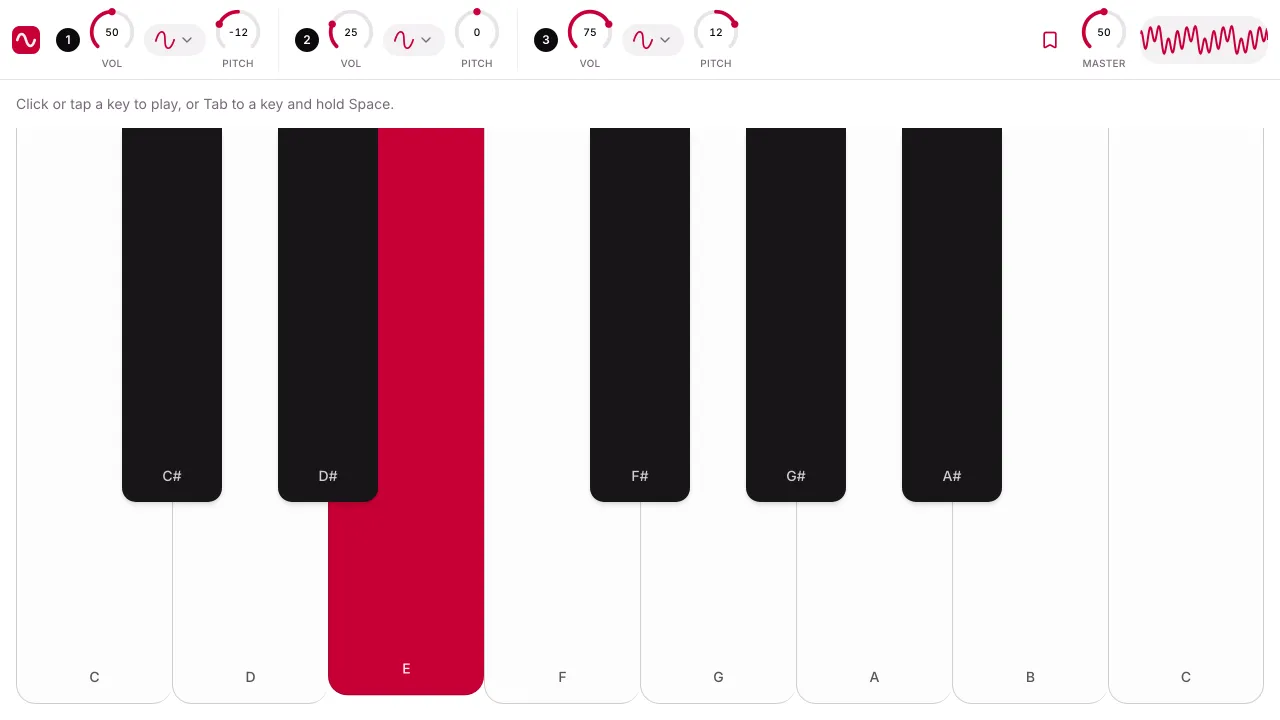
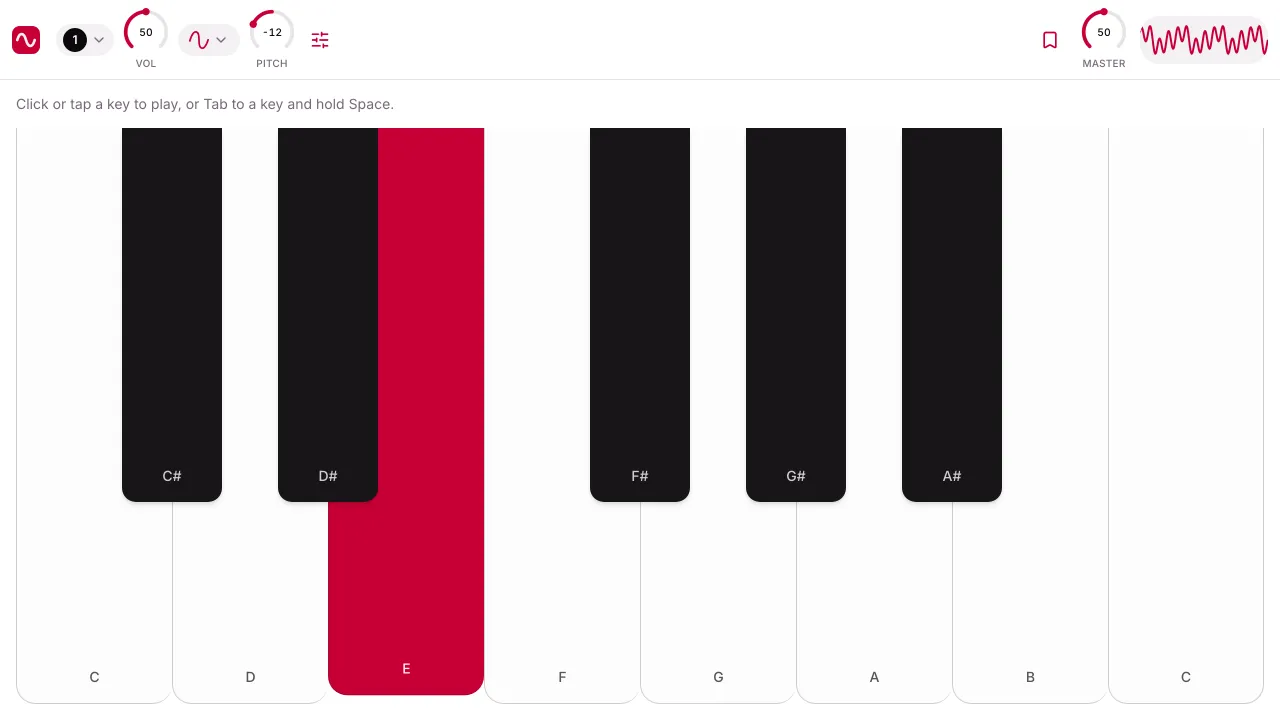
docs: describe the oscillator select and pages
CHANGELOG: each oscillator's own page (Added), and under Changed the
bar's single oscillator with a select and the new /oscillators target.
README and the home page: the screenshots (recaptured) and their alt
text now show one oscillator with the select. AGENTS.md: the new routes
and components, and that which oscillator is shown lives in the URL.

Changed region(s): [[0.0312, 0.0, 0.3438, 0.0917], [0.875, 0.0306, 1.0, 0.0917], [0.4062, 0.0, 0.5312, 0.0917]]

diff --git a/src/pages/Home.tsx b/src/pages/Home.tsx
@@ -79,7 +79,7 @@ const Home = () => (
           sizes={SIZES}
           // The largest thing on the page: fetch it first.
           fetchPriority="high"
-          alt="The Vinskiano synth: three oscillators with volume, waveform and pitch controls, a master volume knob and an oscilloscope above a one-octave keyboard, with the E key pressed"
+          alt="The Vinskiano synth: a bar with an oscillator select, that oscillator's volume, waveform and pitch controls, a master volume knob and an oscilloscope, above a one-octave keyboard with the E key pressed"
           width={2560}
           height={1440}
           className="w-full rounded-2xl border shadow-xl"

diff --git a/AGENTS.md b/AGENTS.md
@@ -36,17 +36,20 @@ Before editing files for a substantial task:
 src/
   music/       Pure music theory: Note, Octave, Frequency, Scale, ScaleBuilder, ScaleStrategy, KEYBOARD_NOTES
   audio/       Web Audio: Engine (context + oscillators + oscilloscope), Context, Oscillator, Oscilloscope
-  components/  React UI: AppBar (oscillator strips + presets + master knob + oscilloscope), Oscillator, WaveformSelect, PresetsMenu, Piano, PianoKey, knobs/, toolbars/, site/ (header, footer)
+  components/  React UI: AppBar (oscillator select + the shown oscillator's strip + presets + master knob + oscilloscope), Oscillator, OscillatorSelect, WaveformSelect, PresetsMenu, Piano, PianoKey, knobs/, toolbars/, site/ (header, footer)
   routes/      File-based routes, two sections:
                  __root      HTML document (shellComponent + head()), 404 (NotFound brings the site chrome)
                  _site.tsx   pathless site layout (header, scrolling page, footer); _site/index.tsx = /
                  app.tsx     /app layout: LazyMotion + SynthProvider + fixed viewport frame + AppBar
-                 app/index.tsx = /app: the keyboard (the whole synth is one screen)
-                 oscillators.tsx  301 redirect from the old /oscillators URL to /app
-  pages/       Presentational pages the routes render: Home (site), PianoRoll (keyboard), NotFound
+                 app/index.tsx = /app: the keyboard; `?osc=2` says which oscillator the bar shows
+                 app/oscillators.$id.tsx = /app/oscillators/1..3: one oscillator in detail, no keyboard
+                 app/oscillators.index.tsx  /app/oscillators → /app/oscillators/1
+                 oscillators.tsx  301 redirect from the old /oscillators URL to /app/oscillators/1
+  pages/       Presentational pages the routes render: Home (site), PianoRoll (keyboard), OscillatorDetail, NotFound
   synth/       SynthProvider: owns the synth settings (state) and the audio Engine (created after mount); useSynth() for routes
                preset.ts (checks a preset's settings and name; shared by browser and server),
-               presets.functions.ts (the server functions), usePresets (the browser side)
+               presets.functions.ts (the server functions), usePresets (the browser side),
+               oscillators.ts (the oscillator ids; reads one from a URL)
   server/      Server-only: backend.server.ts (the kit, created on first use; database() runs migrations),
                guest.server.ts (the visitor's guest from the request), presets.server.ts (queries),
                schema.ts (Drizzle tables), migrations/ (numbered SQL), migrate.server.ts,
@@ -122,6 +125,7 @@ pnpm fix        # Biome: apply formatting and safe fixes
 
 - Add a page by adding a file in `src/routes/` (`createFileRoute('/path')`); `pnpm dev`/`pnpm build` regenerate `routeTree.gen.ts`. Commit the regenerated file with the route.
 - Document-level tags go in `__root.tsx`'s `head()`. `HeadContent` keeps one meta per `name`, so tags that share a name (the light/dark `theme-color` pair) are written directly in `RootDocument`.
+- **Which oscillator is shown lives in the URL**, not in state: `?osc=N` on the keyboard (none for 1), the `$id` on its own page. `SynthBar` in `routes/app.tsx` reads both; switching navigates with `replace: true` and `viewTransition: false` (no history entry, no crossfade). Only the view changes: all three oscillators always sound. UI choices worth keeping on reload or in a link belong in the URL the same way.
 - Route components are thin: read state with `useSynth()` and render a component from `pages/` or `components/`. Components stay presentational (props in, callbacks out); router links are passed in as slots (e.g. `AppBar`'s `start`), so components render without a router in unit tests.
 - After visible UI changes in the app, run `pnpm screenshots` so the home page shows the current app.
 - **Rendering:** the home page (`/`) is **prerendered at build time by Nitro** (`nitro({ prerender: { routes: ['/'] } })` in `vite.config.ts`) and served as a static file; everything else is server-rendered per request. Add a page to `routes` there only if it has no per-request data. Use Nitro's prerender, not Start's `prerender` option: Start writes its HTML after Nitro has listed the public files, so Nitro never served it. `e2e/site.spec.ts` checks `/` has `etag`/`last-modified` and `/app` doesn't.
@@ -190,7 +194,7 @@ pnpm fix        # Biome: apply formatting and safe fixes
 - Piano keys use their own tokens (`bg-key-white`, `bg-key-black`, …) so they stay ivory/ebony in dark mode.
 - `short:` is a custom variant for short viewports (≤ 500px tall, e.g. a phone in landscape): use it to tighten spacing so pages fit without scrolling.
 - **Upright phones get the app rotated** (`data-app-frame` in `routes/app.tsx`). Anything that reads screen coordinates must convert them: popovers render inside the frame (React Aria's `PortalProvider`) and the select places its popover from layout offsets when the frame is rotated (`placeInRotatedContainer` in `ui/select.tsx`); the knob maps the pointer into its own SVG coordinates (`getScreenCTM()`). New overlays or pointer math need the same care; `e2e/orientation.spec.ts` covers both orientations.
-- **The app bar must stay on one row** down to 667 px wide (a small phone in landscape); `e2e/app.spec.ts` checks four sizes. Compact sizing is the default, `md:` and `xl:` add room. Prefer single compact controls (like the waveform dropdown) over rows of buttons.
+- **The app bar must stay on one row** down to 667 px wide (a small phone in landscape); `e2e/app.spec.ts` checks four sizes. Compact sizing is the default, `md:` and `xl:` add room. Prefer single compact controls (like the waveform and oscillator dropdowns) over rows of buttons; the bar shows one oscillator at a time, so new per-oscillator controls go on its page first.
 - Some elements keep plain class names as test hooks (`piano-key`, `piano-key--active`, `oscillator`, `oscilloscope`, `knob`…). Keep them when restyling; prefer roles and names for new tests.
 - Import `buttonVariants` from `@/components/ui/button-variants` when you only need the look (e.g. on a `Link`): importing `button.tsx` pulls React Aria's Button into the bundle.
 

diff --git a/README.md b/README.md
@@ -6,16 +6,16 @@ A three-oscillator synth that lives in your browser. Free and open source, no in
 
 <picture>
   <source srcset="src/assets/screenshots/app-dark-1280.webp" media="(prefers-color-scheme: dark)">
-  <img src="src/assets/screenshots/app-light-1280.webp" alt="The Vinskiano synth: three oscillators with volume, waveform and pitch controls, a master volume knob and an oscilloscope above a one-octave keyboard">
+  <img src="src/assets/screenshots/app-light-1280.webp" alt="The Vinskiano synth: a bar with an oscillator select, that oscillator's volume, waveform and pitch controls, a master volume knob and an oscilloscope, above a one-octave keyboard">
 </picture>
 
 ## What it does
 
-- **Three oscillators**, each with its own waveform (sine, square, triangle or sawtooth), pitch (up to two octaves up or down, in semitones) and volume. Layer them to build a tone.
+- **Three oscillators**, each with its own waveform (sine, square, triangle or sawtooth), pitch (up to two octaves up or down, in semitones) and volume. Layer them to build a tone. The bar shows one at a time (a select picks which), and each has its own page with larger controls.
 - **A 13-key keyboard**, C4 to C5. Play it with a mouse, by touch, or from the keyboard: Tab to a key and hold Space or Enter.
 - **A master volume knob and an oscilloscope** that draws what you hear.
 - **Presets:** save the sound you made under a name, and load it back later. No sign-up: your first save gives this browser a guest account (a cookie that lasts a year). Clearing cookies or using another browser starts a fresh list.
-- **One screen, any device.** Everything fits in a single bar above the keyboard, down to a small phone held sideways. Held upright, a phone turns the synth sideways so the keyboard stays wide.
+- **One screen, any device.** The controls fit in a single bar above the keyboard, down to a small phone held sideways. Held upright, a phone turns the synth sideways so the keyboard stays wide.
 - **Accessible:** every control has a name for screen readers and works by keyboard (knobs take arrows, Page Up/Down, Home/End). Animations respect reduced motion, and dark mode follows your system.
 
 Not there yet: envelopes, filters and modulation. Vinskiano is meant to grow into a full subtractive synth.

diff --git a/CHANGELOG.md b/CHANGELOG.md
@@ -10,10 +10,13 @@ Each release is a git tag `vX.Y.Z`, published as the Docker image `vindotski/vin
 
 ### Added
 
+- Each oscillator has its own page (`/app/oscillators/1` to `3`), with large volume and pitch knobs and the four waveforms as large buttons. Open it from the icon next to the oscillator select. There's no keyboard there; changes apply right away and are heard back on the keyboard
 - Presets: save the current sound under a name, then load or delete it, from the bookmark button in the app bar. They're kept on the server in a guest account, with no sign-up: your first save sets a cookie that lasts a year. Clearing cookies or switching browsers starts a new, empty list
 
 ### Changed
 
+- The app bar shows one oscillator at a time, with a select for the other two. All three keep sounding; only the view changes, and the URL remembers the choice (`/app?osc=2`). This leaves room in the bar for the controls to come
+- The old `/oscillators` URL now opens oscillator 1's page instead of the keyboard
 - Vinskiano now deploys on [Spotcraft](https://spotcraft.dev), with a Postgres database for the presets. The server needs `DATABASE_URL`, `AUTH_SECRET` and `PUBLIC_URL`, and stops at start, naming the one that's missing or wrong. See [docs/deploy.md](docs/deploy.md)
 - Running locally needs Postgres too: `pnpm exec spotcraft dev start` runs it in Docker, and `pnpm exec spotcraft dev env --write` adds its settings to `.env`. Without it, `pnpm dev` still plays (only presets fail), but `pnpm start` and the Docker image won't start
 - The Docker image applies Debian's security updates when it's built, instead of waiting for a new Node base image
